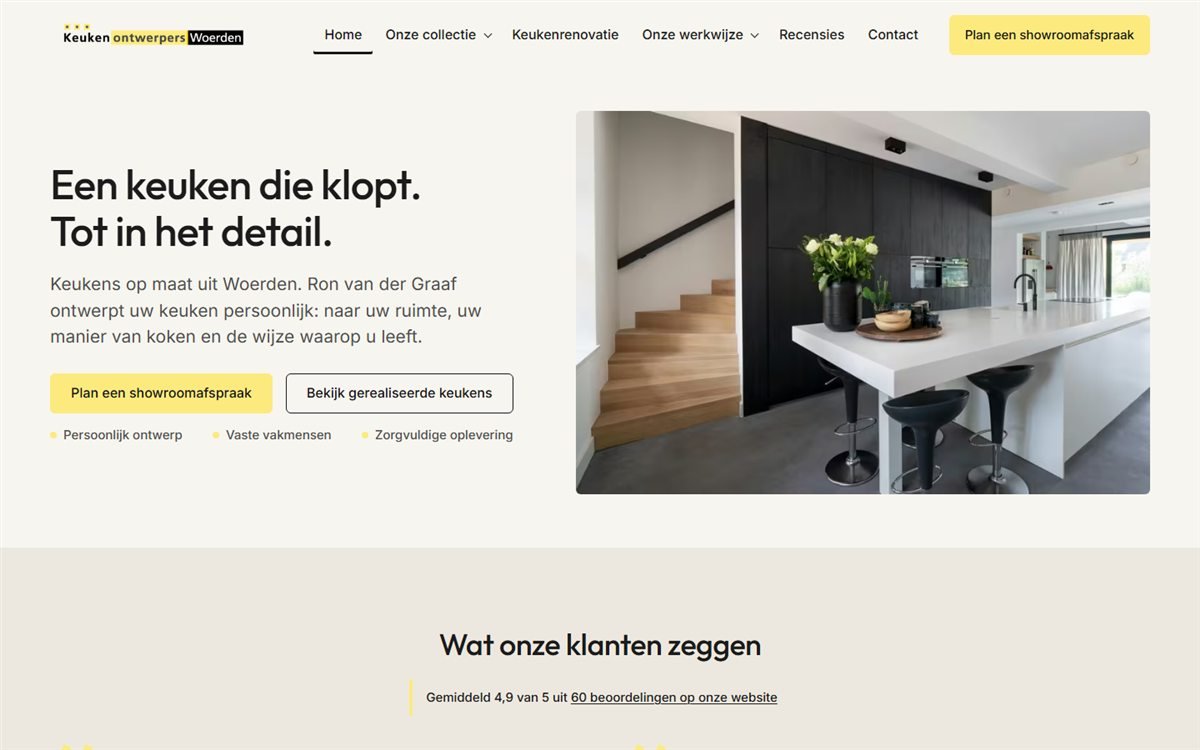
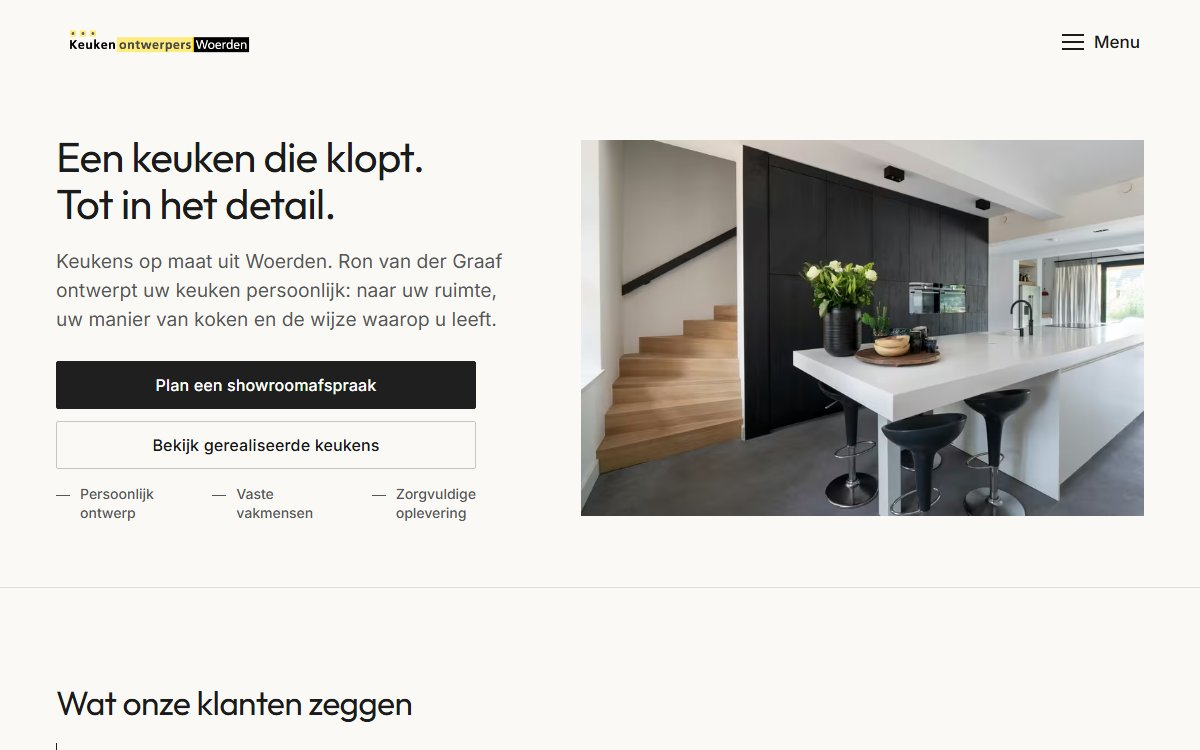
Cases: nieuwe ontwerpen van Keukenontwerpers Woerden en Scheffer Letselschade
Nieuwe schermbeelden van beide sites (1200 bij 750) in het
cases-overzicht, de casepagina's, home en de websitepagina.

diff --git a/site/cases.html b/site/cases.html
@@ -104,7 +104,7 @@
       <p class="kaart__lees" aria-hidden="true">Lees de case <span class="pijl" aria-hidden="true"></span></p>
     </article>
     <article class="kaart" data-soort="websites" data-in>
-      <span class="kaart__beeld"><img src="/assets/img/cases/scheffer-letselschade.webp" alt="Homepage van de website van Scheffer Letselschade" width="1200" height="750" loading="lazy"></span>
+      <span class="kaart__beeld"><img src="/assets/img/cases/scheffer-letselschade.jpg" alt="Homepage van de website van Scheffer Letselschade" width="1200" height="750" loading="lazy"></span>
       <p class="geval__soort">Website</p>
       <h2 class="kaart__naam"><a href="/cases/scheffer-letselschade">Scheffer Letselschade</a></h2>
       <p>Een site die vertrouwen wekt en gevonden wordt.</p>

diff --git a/site/cases/scheffer-letselschade.html b/site/cases/scheffer-letselschade.html
@@ -63,7 +63,7 @@
 
 <section class="s geval" data-thema="wit">
   <div class="kolommen kolommen--om">
-    <div class="venster schaduw-blauw geval__beeld" data-in><img src="/assets/img/cases/scheffer-letselschade.webp" alt="Homepage van de website van Scheffer Letselschade" width="1200" height="750"></div>
+    <div class="venster schaduw-blauw geval__beeld" data-in><img src="/assets/img/cases/scheffer-letselschade.jpg" alt="Homepage van de website van Scheffer Letselschade" width="1200" height="750"></div>
     <div>
       <dl class="drieslag" data-in>
         <div><dt>De vraag</dt><dd>Een professionele basis online, die autoriteit uitstraalt en goed vindbaar is.</dd></div>

diff --git a/site/index.html b/site/index.html
@@ -247,7 +247,7 @@
         <span>Een nieuwe site die laat zien wat de keukenontwerper kan.</span>
       </a>
       <a class="case" href="/cases/scheffer-letselschade">
-        <img src="/assets/img/cases/scheffer-letselschade.webp" alt="Homepage van de website van Scheffer Letselschade" width="1200" height="750" loading="lazy">
+        <img src="/assets/img/cases/scheffer-letselschade.jpg" alt="Homepage van de website van Scheffer Letselschade" width="1200" height="750" loading="lazy">
         <span class="case__soort">Website</span>
         <span class="case__naam">Scheffer Letselschade</span>
         <span>Een site die vertrouwen wekt en gevonden wordt.</span>

diff --git a/site/websites.html b/site/websites.html
@@ -164,7 +164,7 @@
         <span>Een nieuwe site die laat zien wat de keukenontwerper kan.</span>
       </a>
       <a class="case" href="/cases/scheffer-letselschade">
-        <img src="/assets/img/cases/scheffer-letselschade.webp" alt="Homepage van de website van Scheffer Letselschade" width="1200" height="750" loading="lazy">
+        <img src="/assets/img/cases/scheffer-letselschade.jpg" alt="Homepage van de website van Scheffer Letselschade" width="1200" height="750" loading="lazy">
         <span class="case__soort">Website</span>
         <span class="case__naam">Scheffer Letselschade</span>
         <span>Een site die vertrouwen wekt en gevonden wordt.</span>
